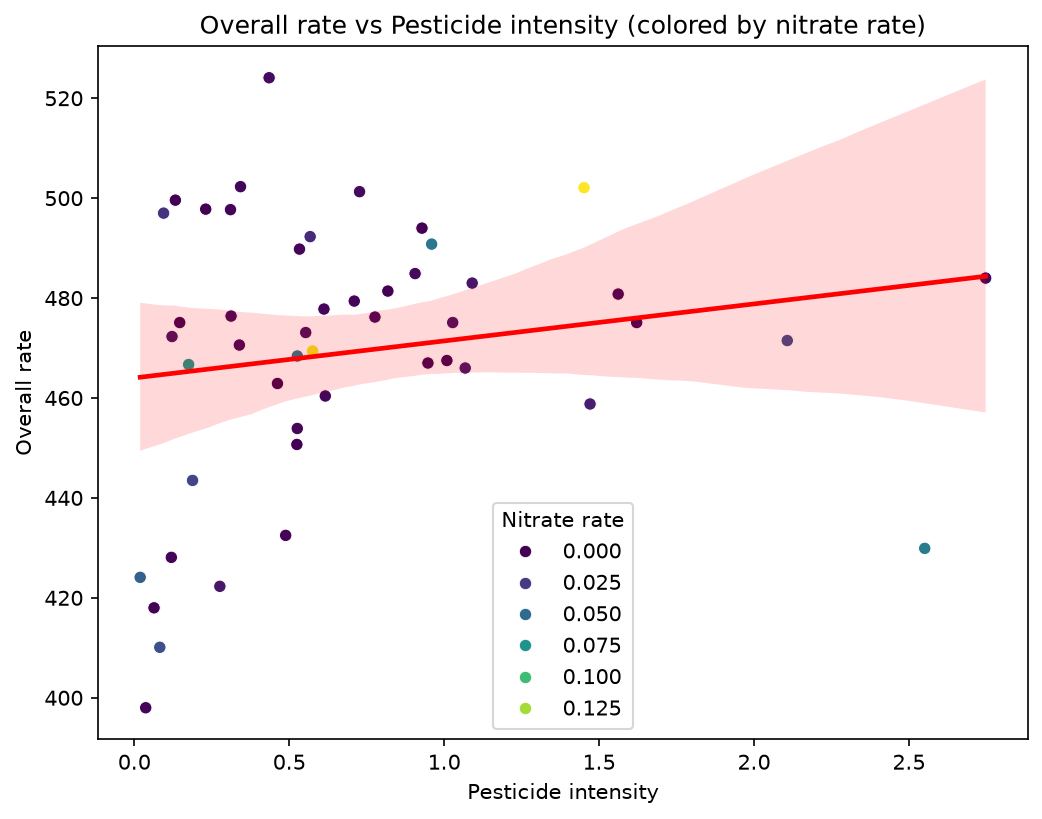
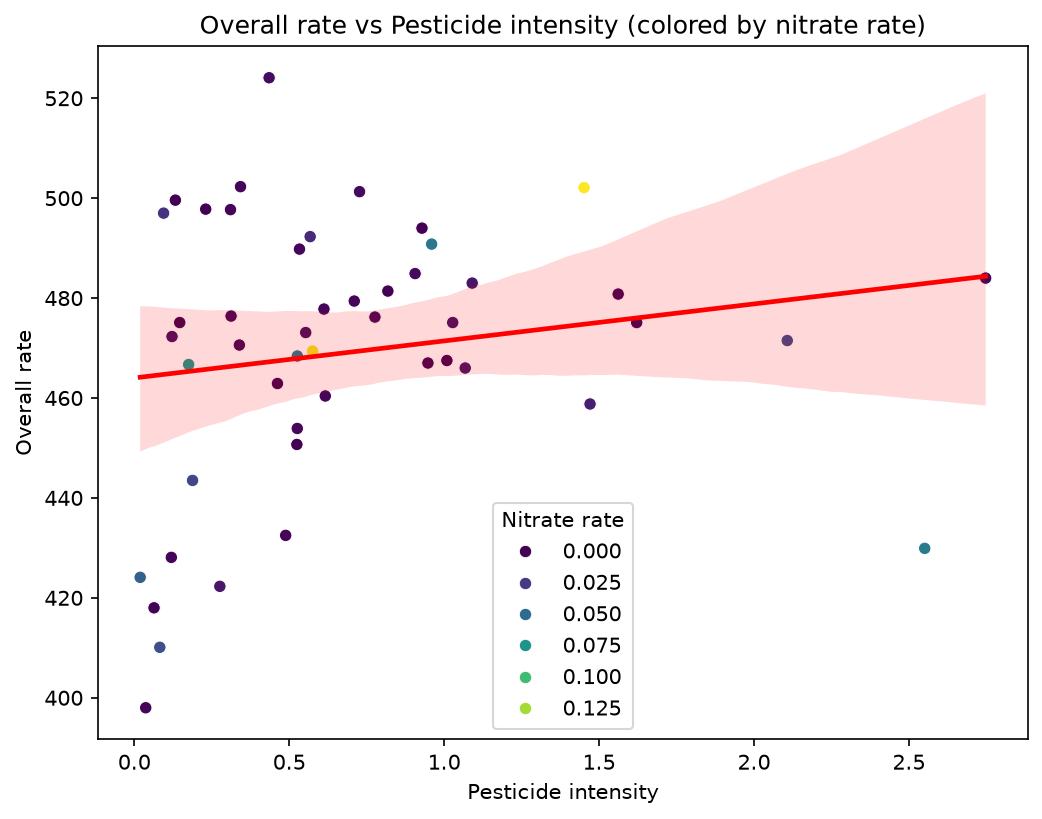
code final

diff --git a/q2codeplot.py b/q2codeplot.py
@@ -133,32 +133,60 @@ def plot_scatter(data, outdir):
 
 
 def plot_interaction(data, outdir):
+    """Plot state-level points and fitted lines by nitrate-rate tercile."""
     outdir.mkdir(parents=True, exist_ok=True)
-    data = data.copy()
-    data["nitrate_bin"] = pd.qcut(
-        data["nitrate_rate"], q=3, labels=["low", "med", "high"]
+
+    plot_data = data.copy()
+    plot_data["nitrate_bin"] = pd.qcut(
+        plot_data["nitrate_rate"],
+        q=3,
+        labels=["low", "med", "high"]
     )
 
-    plt.figure(figsize=(8, 6))
-    colors = {"low": "tab:blue", "med": "tab:orange", "high": "tab:green"}
+    colors = {
+        "low": "tab:blue",
+        "med": "tab:orange",
+        "high": "tab:green"
+    }
 
-    for label, group in data.groupby("nitrate_bin"):
+    plt.figure(figsize=(8, 6))
+
+    for label, group in plot_data.groupby(
+        "nitrate_bin",
+        observed=True
+    ):
         sns.regplot(
-            x="pesticide_intensity", y="overall_rate", data=group,
-            scatter=False, ci=None, label=label, color=colors[label]
+            data=group,
+            x="pesticide_intensity",
+            y="overall_rate",
+            color=colors[str(label)],
+            ci=95,
+            label=str(label),
+            scatter=True,
+            scatter_kws={
+                "s": 35,
+                "alpha": 0.65,
+                "edgecolor": "white",
+                "linewidths": 0.4
+            },
+            line_kws={
+                "linewidth": 2
+            }
         )
 
     plt.title(
-        "Interaction: overall vs pesticide intensity stratified by "
-        "nitrate terciles"
+        "Interaction: overall cancer rate vs. pesticide intensity\n"
+        "stratified by nitrate-rate terciles"
     )
-    plt.xlabel("Pesticide intensity")
-    plt.ylabel("Overall rate")
-    plt.legend(title="nitrate_bin")
+    plt.xlabel("Pesticide-use intensity (average kg / agricultural acre)")
+    plt.ylabel("Overall cancer incidence rate (per 100,000)")
+    plt.legend(title="Nitrate-rate tercile")
+    plt.tight_layout()
 
     p = outdir / "q2_interaction_strata.png"
-    plt.savefig(p, bbox_inches="tight", dpi=150)
+    plt.savefig(p, bbox_inches="tight", dpi=200)
     plt.close()
+
     logging.info(f"Saved {p}")
 
 
